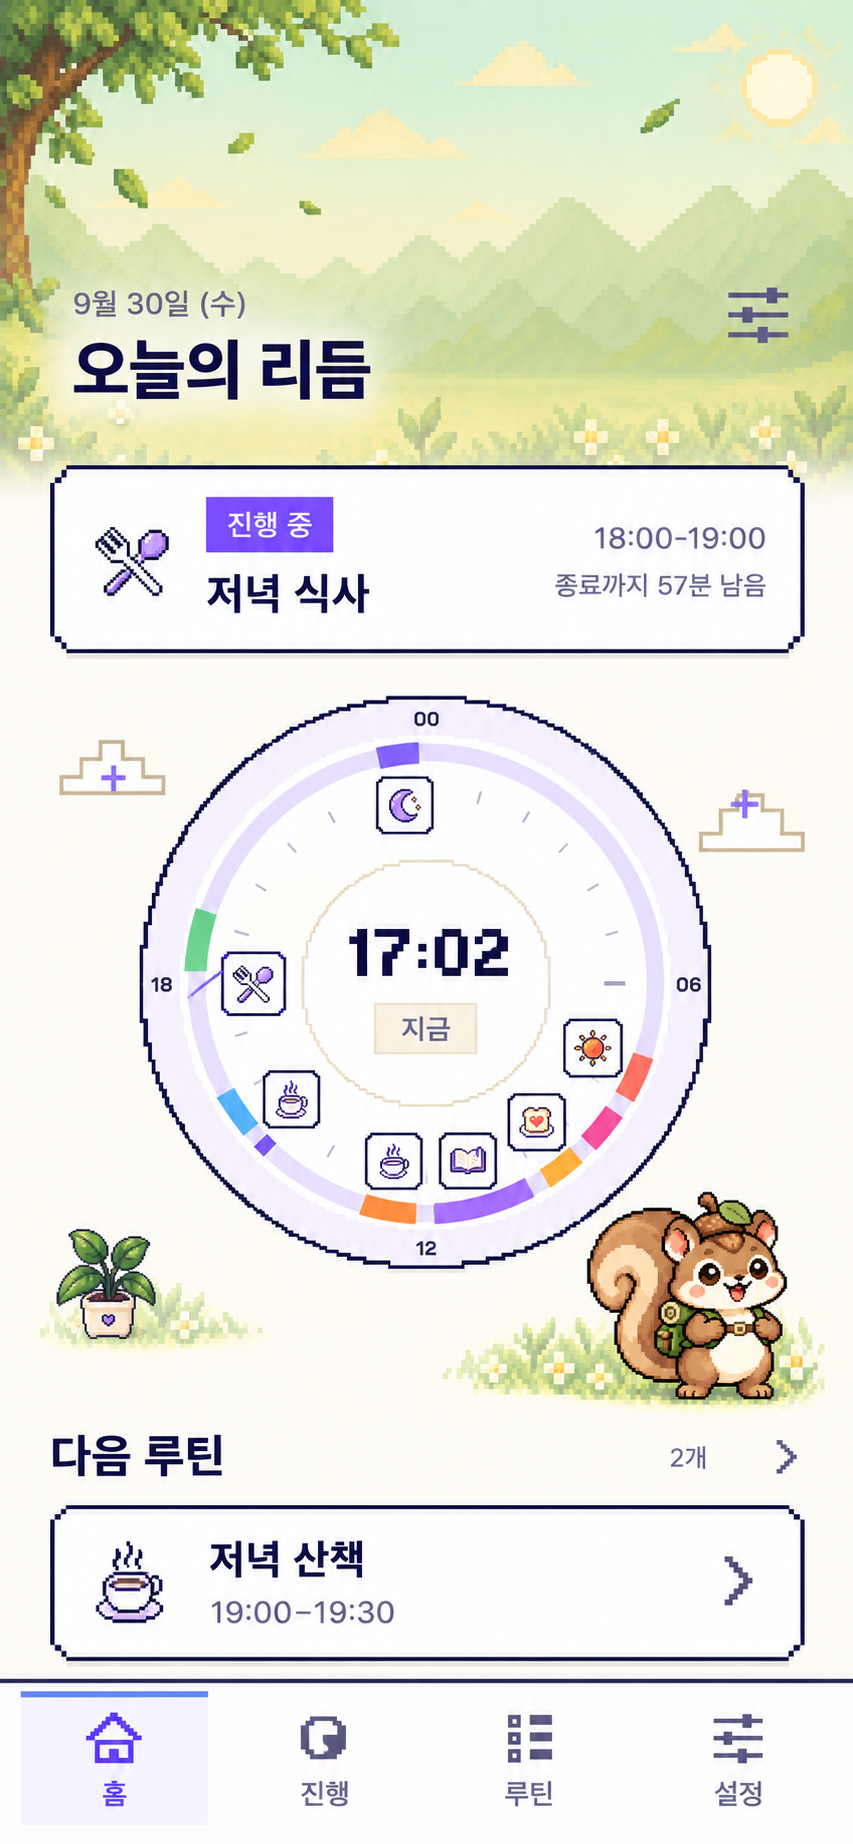
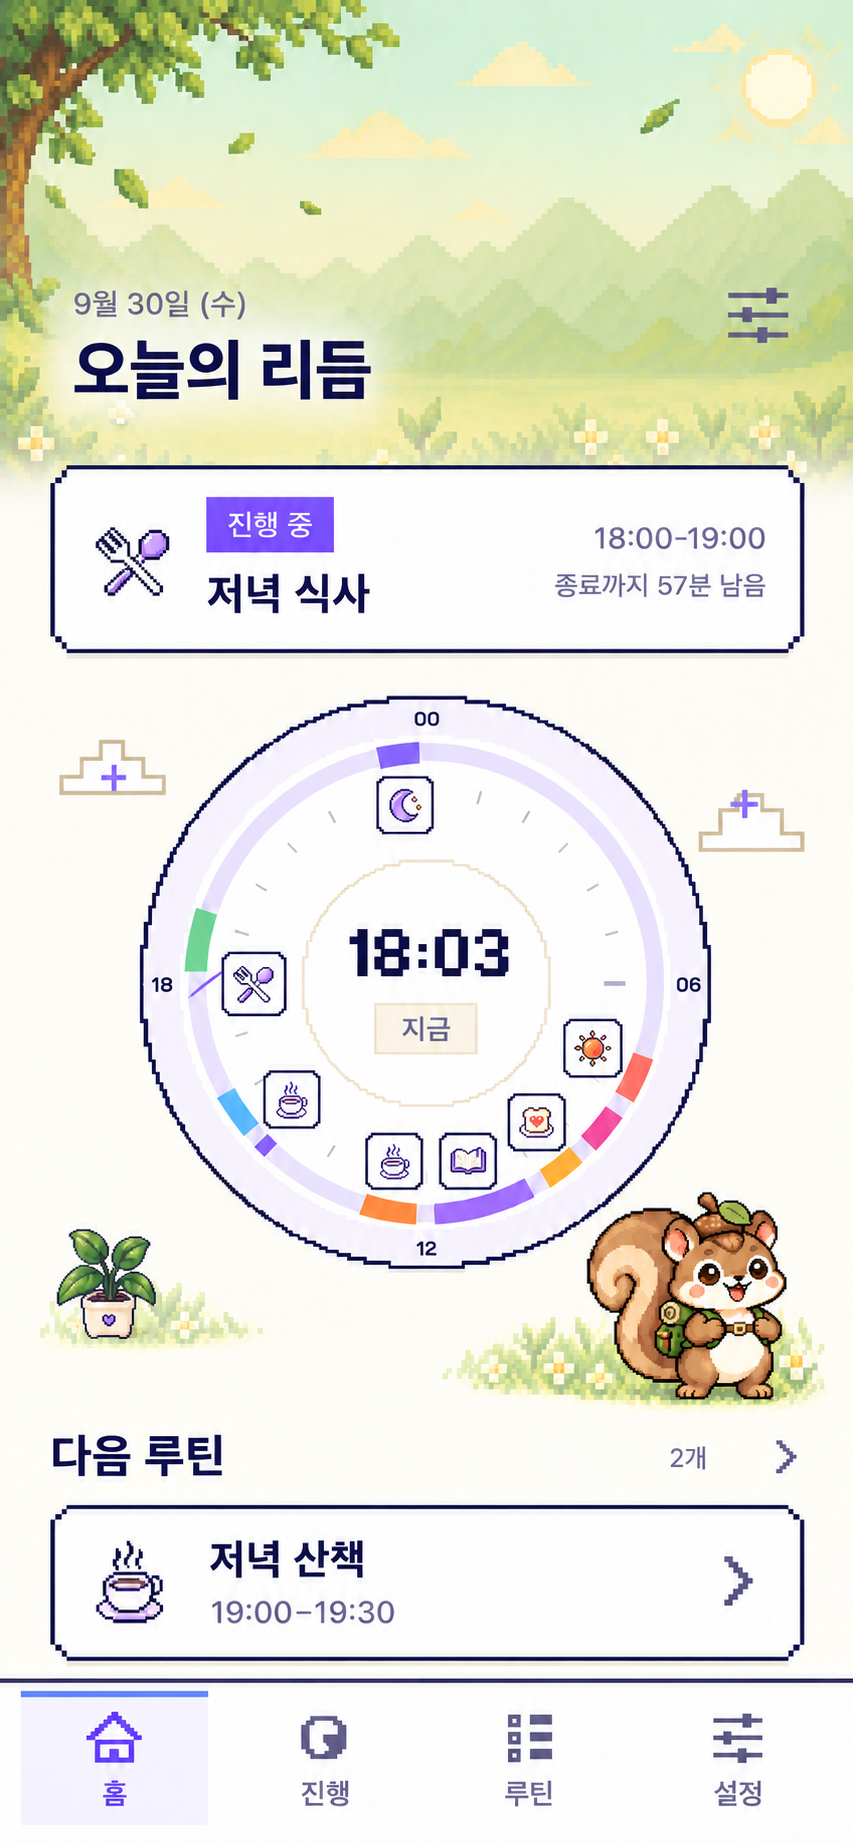
feat: 다람쥐 팩 홈에 숲 배경을 깔아 제목과 첫 카드가 한 장면이 되게 한다

diff --git a/flutter_app/lib/widgets/home/home_focus_card.dart b/flutter_app/lib/widgets/home/home_focus_card.dart
@@ -2,6 +2,7 @@ import 'package:flutter/material.dart';
 
 import '../../application/home/home_focus_state.dart';
 import '../../application/home/home_snapshot.dart';
+import '../../data/store/character_pack_catalog.dart';
 import '../../domain/models/routine.dart';
 import '../../domain/utils/time_minutes.dart';
 import '../../l10n/app_localizations.dart';
@@ -13,6 +14,7 @@ import '../ds/animated_cat.dart';
 import '../ds/app_status_badge.dart';
 import '../ds/routine_mark.dart';
 import '../ds/segmented_progress.dart';
+import '../store/character_pack_scope.dart';
 
 /// 홈 첫 카드 — 홈 화면 위젯 카드를 앱 안으로 옮긴 것.
 ///
@@ -33,6 +35,8 @@ class HomeFocusCard extends StatelessWidget {
     final content = _contentFor(l10n, primary);
     final state = home.focusState;
     final shape = AppPixelStyle.shape(width: 2);
+    final squirrelPack = CharacterPackScope.currentOf(context).id ==
+        CharacterPackCatalog.explorerSquirrel.id;
 
     return Material(
       type: MaterialType.transparency,
@@ -41,6 +45,15 @@ class HomeFocusCard extends StatelessWidget {
           gradient: state == HomeFocusState.skipped
               ? AppColors.focusCardMutedGradient
               : context.appTheme.preset.focusCardGradient,
+          image: squirrelPack && state != HomeFocusState.skipped
+              ? const DecorationImage(
+                  image: AssetImage(
+                    'assets/pack_backgrounds/squirrel-home-card.png',
+                  ),
+                  fit: BoxFit.cover,
+                  filterQuality: FilterQuality.none,
+                )
+              : null,
           shape: shape,
           shadows: const [
             BoxShadow(
@@ -103,12 +116,14 @@ class HomeFocusCard extends StatelessWidget {
                           color: content.progressColor,
                           height: 10,
                           segmentCount: 12,
-                          semanticLabel: '${(content.progress! * 100).round()}%',
+                          semanticLabel:
+                              '${(content.progress! * 100).round()}%',
                         ),
                       ],
                       if (content.next != null) ...[
                         const SizedBox(height: 10),
-                        _NextRow(label: content.nextLabel, routine: content.next!),
+                        _NextRow(
+                            label: content.nextLabel, routine: content.next!),
                       ],
                     ],
                   ),
@@ -267,7 +282,8 @@ class _FocusContent {
 }
 
 class _Title extends StatelessWidget {
-  const _Title({required this.routine, required this.text, required this.muted});
+  const _Title(
+      {required this.routine, required this.text, required this.muted});
 
   final Routine? routine;
   final String text;
@@ -280,7 +296,8 @@ class _Title extends StatelessWidget {
       color: muted ? AppColors.textMuted : null,
     );
     if (routine == null) {
-      return Text(text, maxLines: 2, overflow: TextOverflow.ellipsis, style: style);
+      return Text(text,
+          maxLines: 2, overflow: TextOverflow.ellipsis, style: style);
     }
     return Row(
       children: [

diff --git a/flutter_app/test/squirrel_home_visual_preview_test.dart b/flutter_app/test/squirrel_home_visual_preview_test.dart
@@ -1,0 +1,75 @@
+import 'package:flutter/material.dart';
+import 'package:flutter/services.dart';
+import 'package:flutter_test/flutter_test.dart';
+import 'package:provider/provider.dart';
+import 'package:routine_timer/application/routine_app_controller.dart';
+import 'package:routine_timer/application/services/routine_data_service.dart';
+import 'package:routine_timer/application/services/routine_notification_service.dart';
+import 'package:routine_timer/data/store/character_pack_catalog.dart';
+import 'package:routine_timer/domain/settings/notification_preferences.dart';
+import 'package:routine_timer/domain/store/character_pack.dart';
+import 'package:routine_timer/screens/home_screen.dart';
+import 'package:routine_timer/theme/app_theme.dart';
+import 'package:routine_timer/theme/app_theme_preset.dart';
+import 'package:routine_timer/widgets/store/character_pack_scope.dart';
+import 'package:shared_preferences/shared_preferences.dart';
+
+import 'support/localization.dart';
+import 'support/test_doubles.dart';
+
+void main() {
+  TestWidgetsFlutterBinding.ensureInitialized();
+
+  testWidgets('squirrel home visual preview', (tester) async {
+    SharedPreferences.setMockInitialValues({});
+    tester.view
+      ..physicalSize = const Size(390, 844)
+      ..devicePixelRatio = 1;
+    addTearDown(tester.view.reset);
+    const channel = MethodChannel('home_widget');
+    TestDefaultBinaryMessengerBinding.instance.defaultBinaryMessenger
+        .setMockMethodCallHandler(channel, (call) async => true);
+    addTearDown(() => TestDefaultBinaryMessengerBinding
+        .instance.defaultBinaryMessenger
+        .setMockMethodCallHandler(channel, null));
+
+    final controller = RoutineAppController(
+      dataService: RoutineDataService(
+        routineRepository: MemoryRoutineRepository([
+          dailyRoutine(id: 'study', title: 'study', startHour: 21, endHour: 22),
+          dailyRoutine(id: 'sleep', title: '취침 준비', startHour: 23, endHour: 24),
+        ]),
+        logRepository: MemoryLogRepository(),
+      ),
+      notificationService: RoutineNotificationService(
+        exactAlarmsAllowed: () async => false,
+        gateway: NoopNotificationGateway(),
+        preferencesLoader: () async =>
+            NotificationPreferences.firstLaunchDefaults,
+      ),
+      nowProvider: () => DateTime(2026, 9, 30, 19, 19),
+      clockAutoRefreshEnabled: false,
+    );
+    await controller.load();
+    addTearDown(controller.dispose);
+
+    await tester.pumpWidget(
+      ChangeNotifierProvider.value(
+        value: controller,
+        child: CharacterPackScope(
+          current: CharacterPackCatalog.explorerSquirrel,
+          ownership: const BundledOnlyOwnership(),
+          child: localizedApp(
+            theme: buildRoutineTheme(preset: AppThemePreset.explorerSquirrel),
+            home: const HomeScreen(),
+          ),
+        ),
+      ),
+    );
+    await tester.pumpAndSettle();
+    await expectLater(
+      find.byType(MaterialApp),
+      matchesGoldenFile('goldens/squirrel_home_visual_preview.png'),
+    );
+  });
+}

diff --git a/flutter_app/lib/screens/home_screen.dart b/flutter_app/lib/screens/home_screen.dart
@@ -24,6 +24,7 @@ import '../widgets/home/circular_timetable_area.dart';
 import '../widgets/home/home_focus_card.dart';
 import '../widgets/home/home_timetable_scene.dart';
 import '../widgets/release/release_announcement.dart';
+import '../widgets/store/character_pack_scope.dart';
 import '../widgets/store/launch_gift_dialog.dart';
 import '../data/store/character_pack_catalog.dart';
 import '../widgets/update/update_banner.dart';
@@ -296,6 +297,8 @@ class _HomeScreenState extends State<HomeScreen> with RouteAware {
         }
         _scheduleLaunchGift();
         final home = app.homeSnapshotFor(l10n);
+        final squirrelPack = CharacterPackScope.currentOf(context).id ==
+            CharacterPackCatalog.explorerSquirrel.id;
         // 다음 일정은 upcomingRoutines 하나만 소비한다.
         // nextAfterDisplay를 함께 넣으면 첫 항목이 중복된다.
         final upcoming = home.upcomingRoutines;
@@ -309,6 +312,7 @@ class _HomeScreenState extends State<HomeScreen> with RouteAware {
             onSettings: () => context.go('/settings'),
           ),
           body: AppScreenShell(
+            background: squirrelPack ? const _SquirrelHomeBackdrop() : null,
             child: SingleChildScrollView(
               // 탭 목적지 4개는 같은 상단 여백을 쓴다. 홈만 다르면
               // 탭을 옮길 때 제목이 그대로 튄다.
@@ -455,6 +459,38 @@ class _HomeScreenState extends State<HomeScreen> with RouteAware {
           ),
         );
       },
+    );
+  }
+}
+
+/// 다람쥐 팩의 숲은 제목 뒤에서 시작해 첫 카드 위에서 옅어진다.
+class _SquirrelHomeBackdrop extends StatelessWidget {
+  const _SquirrelHomeBackdrop();
+
+  @override
+  Widget build(BuildContext context) {
+    return Align(
+      alignment: Alignment.topCenter,
+      child: SizedBox(
+        width: double.infinity,
+        height: 250,
+        child: ShaderMask(
+          blendMode: BlendMode.dstIn,
+          shaderCallback: (bounds) => const LinearGradient(
+            begin: Alignment.topCenter,
+            end: Alignment.bottomCenter,
+            colors: [Colors.white, Colors.white, Colors.transparent],
+            stops: [0, 0.53, 1],
+          ).createShader(bounds),
+          child: Image.asset(
+            'assets/pack_backgrounds/squirrel-home-header.png',
+            fit: BoxFit.cover,
+            alignment: Alignment.topCenter,
+            filterQuality: FilterQuality.none,
+            excludeFromSemantics: true,
+          ),
+        ),
+      ),
     );
   }
 }

diff --git a/flutter_app/lib/widgets/ds/app_screen_shell.dart b/flutter_app/lib/widgets/ds/app_screen_shell.dart
@@ -6,26 +6,36 @@ class AppScreenShell extends StatelessWidget {
   const AppScreenShell({
     super.key,
     required this.child,
+    this.background,
     this.padding = EdgeInsets.zero,
     this.maxWidth = AppLayout.maxContentWidth,
   });
 
   final Widget child;
+  final Widget? background;
   final EdgeInsetsGeometry padding;
   final double maxWidth;
 
   @override
   Widget build(BuildContext context) {
-    return Container(
-      width: double.infinity,
-      height: double.infinity,
-      color: Theme.of(context).scaffoldBackgroundColor,
-      child: SafeArea(
-        child: Center(
-          child: ConstrainedBox(
-            constraints: BoxConstraints(maxWidth: maxWidth),
-            child: Padding(padding: padding, child: child),
-          ),
+    return SizedBox.expand(
+      child: ColoredBox(
+        color: Theme.of(context).scaffoldBackgroundColor,
+        child: Stack(
+          children: [
+            if (background != null)
+              Positioned.fill(
+                child: IgnorePointer(child: background!),
+              ),
+            SafeArea(
+              child: Center(
+                child: ConstrainedBox(
+                  constraints: BoxConstraints(maxWidth: maxWidth),
+                  child: Padding(padding: padding, child: child),
+                ),
+              ),
+            ),
+          ],
         ),
       ),
     );
